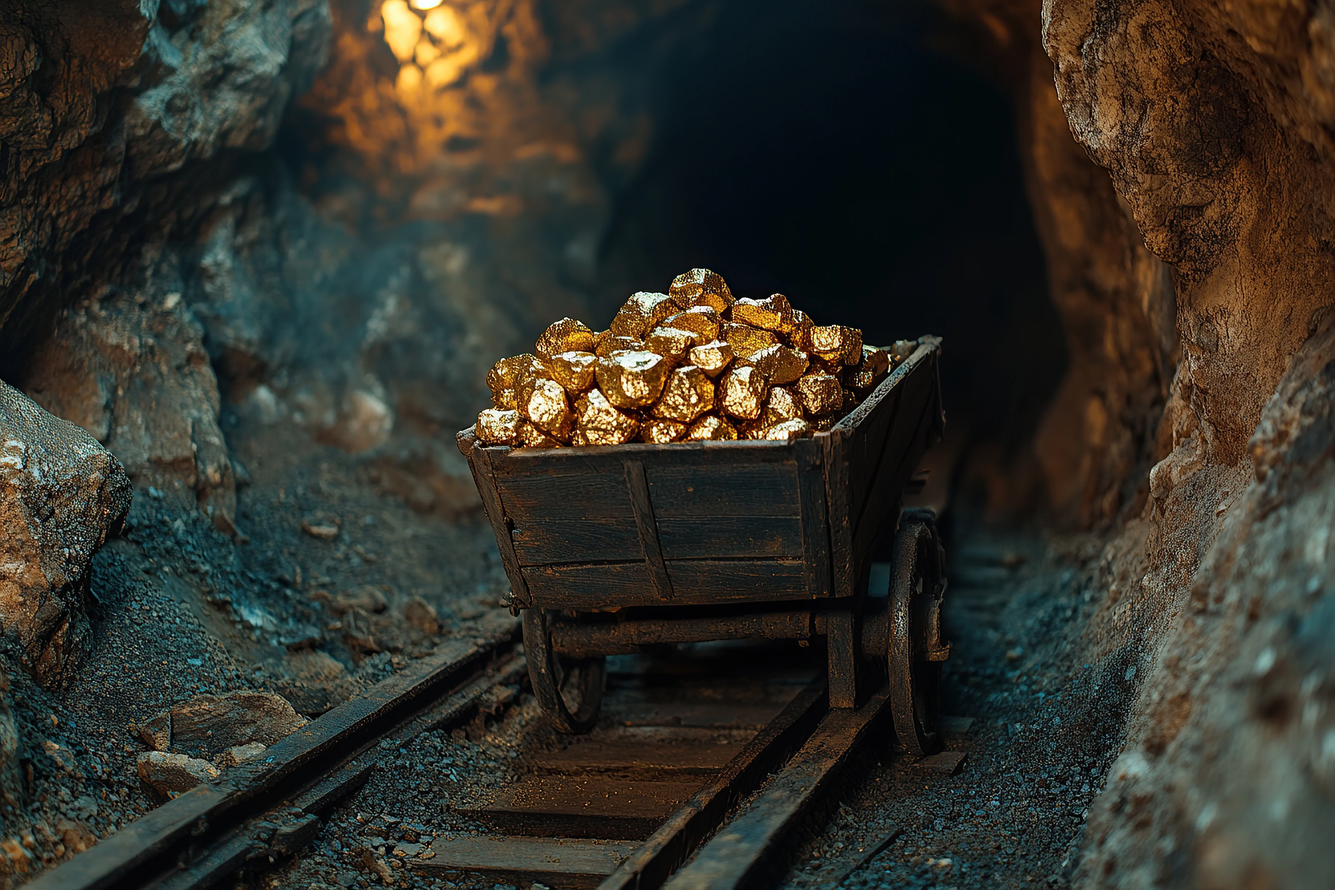
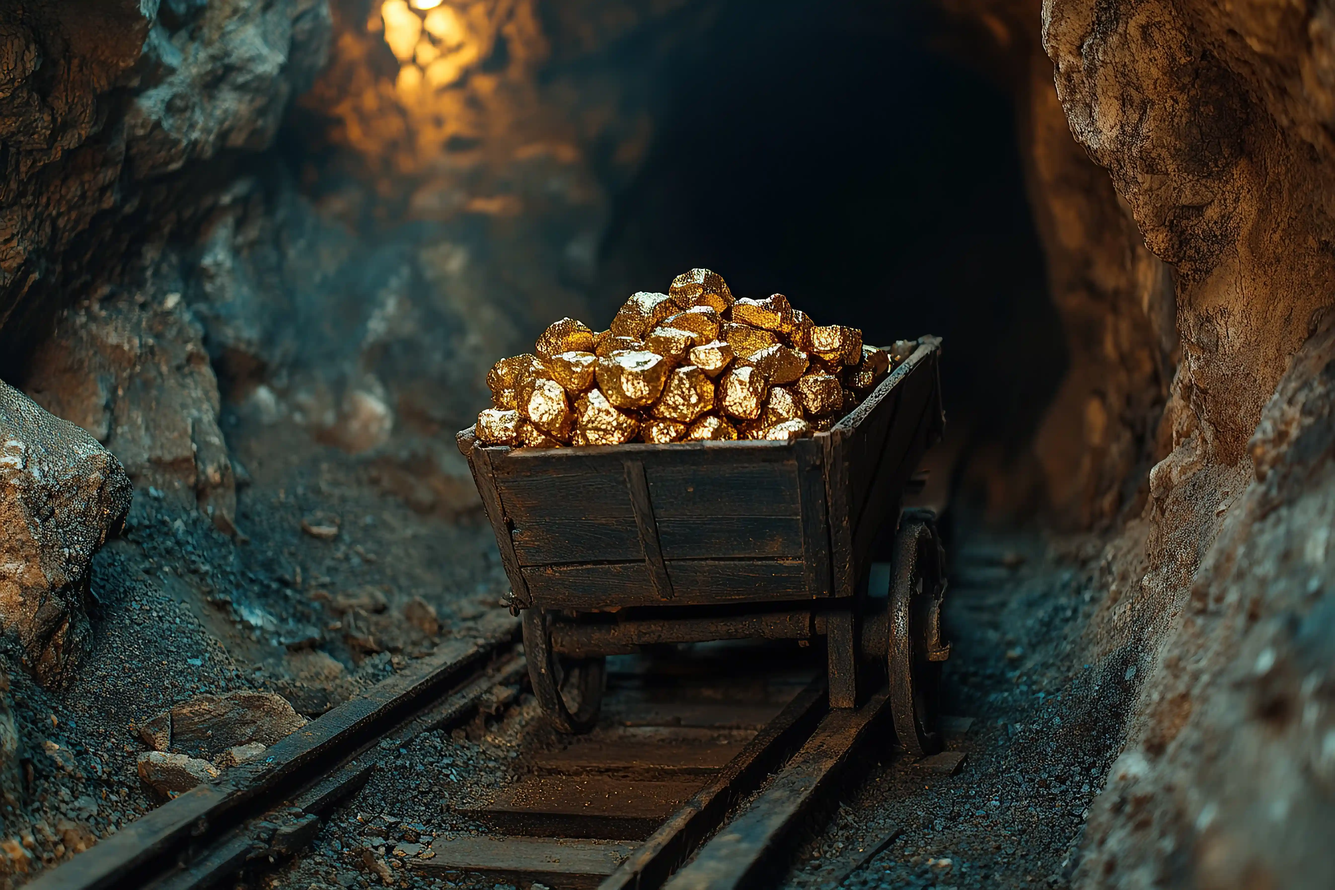
change image format in to webp

diff --git a/src/App.jsx b/src/App.jsx
@@ -1,17 +1,17 @@
-import  { useEffect, useRef } from "react";
+import { useEffect, useRef } from "react";
 import { BrowserRouter, Routes, Route, useLocation } from "react-router-dom";
 import "./App.css";
 import Home from "./pages/Home";
 import Footer from "./component/common/Footer";
 import HtmlHead from "./component/common/JugadHeader/HtmlHead";
 import InnerPage from "./pages/InnerPage";
-import WhyWeExist from "./pages/WhyWeExist";  
+import WhyWeExist from "./pages/WhyWeExist";
 import OilAndGas from "./pages/OilAndGas";
 import Drilling from "./pages/Drilling";
 import EnvironmentalAndSafety from "./pages/EnvironmentalAndSafety";
 import ConsultingAndEngineering from "./pages/ConsultingAndEngineering";
-import menu1 from "../src/assets/menu1.png"
-import menu from "../src/assets/menu.png"
+import menu1 from "../src/assets/menu1.webp";
+import menu from "../src/assets/menu.webp";
 import { HelmetProvider } from "react-helmet-async";
 import Goldandnaturalresources from "./pages/Goldandnaturalresources";
 
@@ -31,37 +31,62 @@ const ScrollProgress = () => {
       }
     };
 
-    window.addEventListener('scroll', fillScrollLine);
-    return () => window.removeEventListener('scroll', fillScrollLine);
+    window.addEventListener("scroll", fillScrollLine);
+    return () => window.removeEventListener("scroll", fillScrollLine);
   }, []);
 
   return <div className="scroll-line z-[999]" ref={scrollLineRef}></div>;
 };
 const Header = () => {
   const location = useLocation();
-  return location.pathname === '/' ? <HtmlHead navTextColorTo='text-[#C0C0C0]' backgorundColor='bg-transparent' scrollColorBG="bg-[#323232]" geroslogo={true} mobilelogo={menu1}  /> : <HtmlHead navTextColorTo='text-black' backgorundColor='bg-transparent' scrollColorBG="bg-white" geroslogo={false} mobilelogo={menu} />;
+  return location.pathname === "/" ? (
+    <HtmlHead
+      navTextColorTo="text-[#C0C0C0]"
+      backgorundColor="bg-transparent"
+      scrollColorBG="bg-[#323232]"
+      geroslogo={true}
+      mobilelogo={menu1}
+    />
+  ) : (
+    <HtmlHead
+      navTextColorTo="text-black"
+      backgorundColor="bg-transparent"
+      scrollColorBG="bg-white"
+      geroslogo={false}
+      mobilelogo={menu}
+    />
+  );
 };
 const App = () => {
   return (
     <HelmetProvider>
-    <BrowserRouter>
-      <ScrollProgress />
-      <Header />
-      <Routes>
-        <Route path="/" element={<Home/>} />
-        <Route path="/:id" element={<InnerPage/>} />
-        {/* <Route path="/why-we-exist" element={<WhyWeExist/>} /> */}
-        {/* all /services/... routes grouped */}
-        <Route path="services">
-          <Route path="gold-and-natural-resources" element={<Goldandnaturalresources />} />
-          <Route path="oil-and-gas"                element={<OilAndGas />} />
-          <Route path="drilling"                   element={<Drilling />} />
-          <Route path="environmental-and-safety"   element={<EnvironmentalAndSafety />} />
-          <Route path="consulting-and-engineering" element={<ConsultingAndEngineering />} />
-        </Route>
-      </Routes>
-      <Footer />
-    </BrowserRouter>
+      <BrowserRouter>
+        <ScrollProgress />
+        <Header />
+        <Routes>
+          <Route path="/" element={<Home />} />
+          <Route path="/:id" element={<InnerPage />} />
+          {/* <Route path="/why-we-exist" element={<WhyWeExist/>} /> */}
+          {/* all /services/... routes grouped */}
+          <Route path="services">
+            <Route
+              path="gold-and-natural-resources"
+              element={<Goldandnaturalresources />}
+            />
+            <Route path="oil-and-gas" element={<OilAndGas />} />
+            <Route path="drilling" element={<Drilling />} />
+            <Route
+              path="environmental-and-safety"
+              element={<EnvironmentalAndSafety />}
+            />
+            <Route
+              path="consulting-and-engineering"
+              element={<ConsultingAndEngineering />}
+            />
+          </Route>
+        </Routes>
+        <Footer />
+      </BrowserRouter>
     </HelmetProvider>
   );
 };

diff --git a/src/component/common/JugadHeader/HtmlHead.jsx b/src/component/common/JugadHeader/HtmlHead.jsx
@@ -8,10 +8,10 @@ import "./s7.css";
 import "./s8.css";
 import "./s9.css";
 import "./s10.css";
-import close from "../../../assets/close.png";
-import singleLogos from "../../../assets/singleLogos.png";
-import gerosLogo from "../../../assets/geros-logo.png";
-import whiteLogo from "../../../assets/whiteLogo.png";
+import close from "../../../assets/close.webp";
+import singleLogos from "../../../assets/singleLogos.webp";
+import gerosLogo from "../../../assets/geros-logo.webp";
+import whiteLogo from "../../../assets/whiteLogo.webp";
 import { Link, useNavigate } from "react-router-dom";
 
 const HtmlHead = ({
@@ -858,7 +858,7 @@ const DropdownMenu = ({
             ))}
           {selectedDropdown === 1 &&
             dropDownSectors.map((item, index) => (
-              <Link to="oil-and-gas">
+              <Link to="about-us">
                 <li
                   onClick={() => navBarClickHandle(selectedDropdown)}
                   key={index}

diff --git a/src/component/sample/SampleBanner.jsx b/src/component/sample/SampleBanner.jsx
@@ -1,11 +1,11 @@
 import React, { useState, useEffect } from "react";
 import styled, { keyframes } from "styled-components";
 import Nav from "../imageSlide/Nav";
-import one from "../../assets/one1.jpg"
-import two from "../../assets/one2.jpg";
-import three from "../../assets/one3.jpg";
-import four from "../../assets/one4.jpg";
-import close from "../../assets/close.png";
+import one from "../../assets/one1.webp"
+import two from "../../assets/one2.webp";
+import three from "../../assets/one3.webp";
+import four from "../../assets/one4.webp";
+import close from "../../assets/close.webp";
 import TimeRange from "../timeRange/TimeRange";
 import AramcoTimeRane from "../timeRange/AramcoTimeRane";
 

diff --git a/src/component/homePage/ThreeCard.jsx b/src/component/homePage/ThreeCard.jsx
@@ -1,9 +1,9 @@
-import first from '../../assets/sample6.jpeg'
-import second from '../../assets/sample7.jpeg'
-import therd from '../../assets/sample4.jpg'
-import fourth from '../../assets/sample8.jpeg'
-import fifth from '../../assets/sample9.jpeg'
-import sixth from '../../assets/sample10.jpeg'
+import first from '../../assets/sample6.webp'
+import second from '../../assets/sample7.webp'
+import therd from '../../assets/sample4.webp'
+import fourth from '../../assets/sample8.webp'
+import fifth from '../../assets/sample9.webp'
+import sixth from '../../assets/sample10.webp'
 
 const ThreeCard = () => {
   return (

diff --git a/src/component/imageSlide/ImageSlide.jsx b/src/component/imageSlide/ImageSlide.jsx
@@ -4,10 +4,10 @@ import Nav from "./Nav";
 import Slider from "react-slick";
 import "slick-carousel/slick/slick.css";
 import "slick-carousel/slick/slick-theme.css";
-import one from "../../assets/one1.jpg";
-import two from "../../assets/one2.jpg";
-import three from "../../assets/one3.jpg";
-import four from "../../assets/one4.jpg";
+import one from "../../assets/one1.webp";
+import two from "../../assets/one2.webp";
+import three from "../../assets/one3.webp";
+import four from "../../assets/one4.webp";
 import five from "../../assets/one5.webp";
 import { Carousel } from "react-responsive-carousel";
 

diff --git a/src/component/sample/Sample.jsx b/src/component/sample/Sample.jsx
@@ -3,10 +3,10 @@ import "react-responsive-carousel/lib/styles/carousel.min.css";
 import TimeRange from "../timeRange/TimeRange";
 import "slick-carousel/slick/slick.css";
 import "slick-carousel/slick/slick-theme.css";
-import one from "../../assets/one1.jpg";
-import two from "../../assets/one2.jpg";
-import three from "../../assets/one3.jpg";
-import four from "../../assets/one4.jpg";
+import one from "../../assets/one1.webp";
+import two from "../../assets/one2.webp";
+import three from "../../assets/one3.webp";
+import four from "../../assets/one4.webp";
 import Slider from "react-slick";
 
 

diff --git a/src/component/sample/InnerHead.jsx b/src/component/sample/InnerHead.jsx
@@ -9,10 +9,10 @@ import "./s8.css";
 import "./s9.css";
 import "./s10.css";
 import './myStyle.css'
-import close from "../../assets/close.png";
-import menu from "../../assets/menu.png";
-import whiteLogo from "../../assets/whiteLogo.png";
-import singleLogos from "../../assets/singleLogos.png";
+import close from "../../assets/close.webp";
+import menu from "../../assets/menu.webp";
+import whiteLogo from "../../assets/whiteLogo.webp";
+import singleLogos from "../../assets/singleLogos.webp";
 import { Link } from "react-router-dom";
 
 const InnerHead = () => {

diff --git a/src/component/sample/Example.jsx b/src/component/sample/Example.jsx
@@ -1,10 +1,10 @@
 import { useState, useEffect } from "react";
 import styled, { keyframes } from "styled-components";
 import Nav from "../imageSlide/Nav";
-import one from "../../assets/one1.jpg";
-import two from "../../assets/one2.jpg";
-import three from "../../assets/one3.jpg";
-import four from "../../assets/one4.jpg";
+import one from "../../assets/one1.webp";
+import two from "../../assets/one2.webp";
+import three from "../../assets/one3.webp";
+import four from "../../assets/one4.webp";
 
 const Container = styled.div`
   position: relative;

diff --git a/src/component/common/JugadHeader/CssSite.jsx b/src/component/common/JugadHeader/CssSite.jsx
@@ -10,10 +10,10 @@ import "./s9.css";
 import "./s10.css";
 import "./myStyle.css";
 import "../../../styl.css";
-import one from "../../../assets/one1.jpg";
-import two from "../../../assets/one2.jpg";
-import three from "../../../assets/one3.jpg";
-import four from "../../../assets/one4.jpg";
+import one from "../../../assets/one1.webp";
+import two from "../../../assets/one2.webp";
+import three from "../../../assets/one3.webp";
+import four from "../../../assets/one4.webp";
 import five from "../../../assets/one5.webp";
 
 const CssSite = () => {

diff --git a/src/component/homePage/DiscoverSection.jsx b/src/component/homePage/DiscoverSection.jsx
@@ -1,8 +1,8 @@
 import  { useEffect, useRef } from 'react';
-import product from '../../assets/product.jpg';
-import oil from '../../assets/oil.jpeg';
-import supplay from '../../assets/supplay.jpg';
-import drilling from '../../assets/drilling.jpg';
+import product from '../../assets/product.webp';
+import oil from '../../assets/oil.webp';
+import supplay from '../../assets/supplay.webp';
+import drilling from '../../assets/drilling.webp';
 import gold from '../../assets/gold.webp';
 
 const DiscoverSection = () => {

diff --git a/src/component/imageSlide/MobileBanner.jsx b/src/component/imageSlide/MobileBanner.jsx
@@ -1,8 +1,8 @@
 import React from 'react';
-import one from "../../assets/one1.jpg";
-import two from "../../assets/one2.jpg";
-import three from "../../assets/one3.jpg";
-import four from "../../assets/one4.jpg";
+import one from "../../assets/one1.webp";
+import two from "../../assets/one2.webp";
+import three from "../../assets/one3.webp";
+import four from "../../assets/one4.webp";
 import Nav from './Nav';
 import WhiteArrow from '../Arrows/WhiteArrow';
 import { Link } from 'react-router-dom';

diff --git a/index.html b/index.html
@@ -20,7 +20,7 @@
       crossorigin
     />
 
-    <link rel="icon" type="image/svg+xml" href="./src/assets/faveicon.png" />
+    <link rel="icon" type="image/svg+xml" href="./src/assets/faveicon.webp" />
     <meta name="viewport" content="width=device-width, initial-scale=1.0" />
     <title>GEROS | Global Energy & Resources Organisations</title>
     <meta
